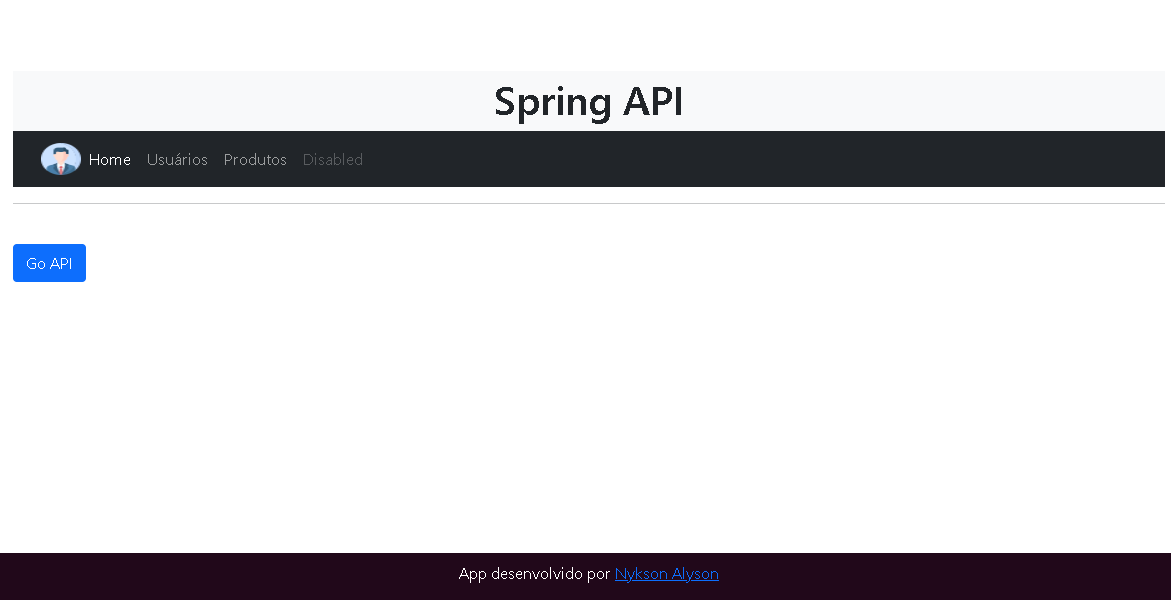
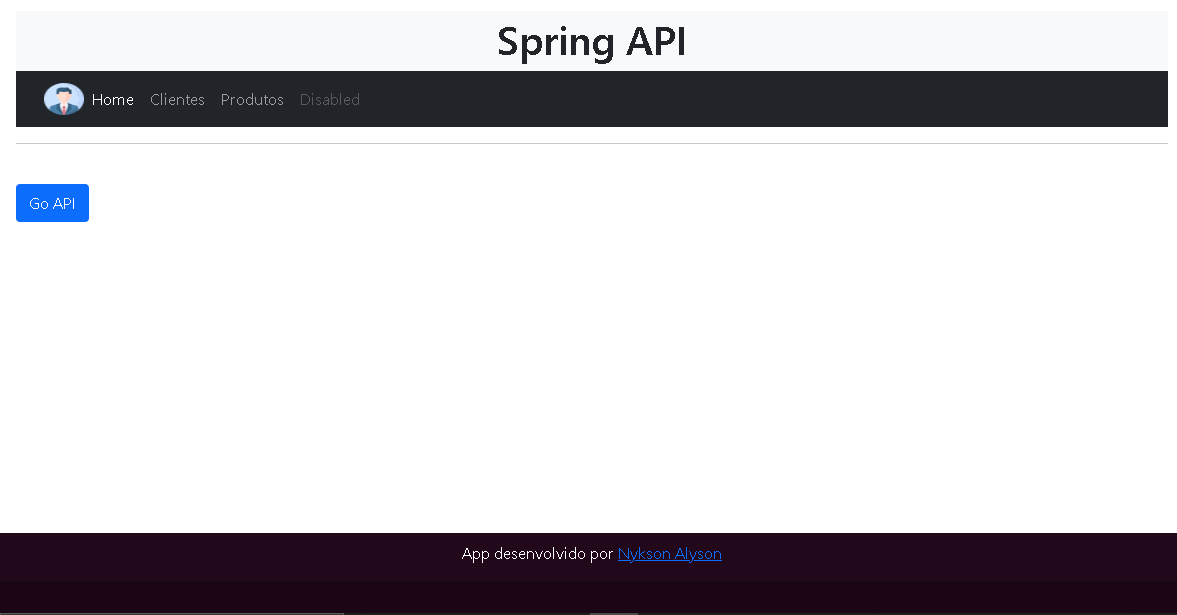
Update Project

diff --git a/src/main/resources/static/product.html b/src/main/resources/static/product.html
@@ -9,7 +9,7 @@
 	html{
 		margin-left: 5%;
 		margin-right:5%;
-		margin-top:6%;
+		margin-top:1%;
 	}
 	</style>
 
@@ -21,6 +21,7 @@
     <h1 class="mb-1">Produtos no Sistema</h1>
     
   </div>
+
 <nav class="navbar navbar-expand-lg navbar-dark bg-danger">
  
   <div class="container-fluid">
@@ -35,7 +36,7 @@
           <a class="nav-link active" aria-current="page" href="index.html">Home</a>
         </li>
         <li class="nav-item">
-          <a class="nav-link" href="user.html">Usuarios</a>
+          <a class="nav-link" href="user.html">Clientes</a>
         </li>
         <li class="nav-item">
           <a class="nav-link" href="product.html">Produtos</a>
@@ -54,17 +55,22 @@
 <form action=""id="formularioProdutos">
 <div class="mb-1 form-group col-sm-2">
   <label for="exampleFormControlInput1" class="form-label">Cod Produto</label>
-  <input type="email" class="form-control" id="idcon" readonly="readonly">
+  <input type="text" class="form-control" id="idcon" readonly="readonly">
 </div>
 
 <div class="mb-1 form-group col-sm-4">
   <label for="exampleFormControlInput1" class="form-label">Nome do Produto</label>
-  <input type="email" class="form-control" id="name" placeholder="informe o produto">
+  <input type="text" class="form-control" id="name" placeholder="informe o produto">
+</div>
+
+<div class="mb-1 form-group col-sm-2">
+  <label for="exampleFormControlInput1" class="form-label">Valor do Produto</label>
+  <input type="number" class="form-control" id="valor" placeholder="informe a valor do produto">
 </div>
 
 <div class="mb-1 form-group col-sm-4">
   <label for="exampleFormControlInput1" class="form-label">Categoria do Produto</label>
-  <input type="email" class="form-control" id="categoria" placeholder="informe a categoria">
+  <input type="text" class="form-control" id="categoria" placeholder="informe a categoria">
 </div>
 
 <br>
@@ -99,10 +105,11 @@
   <thead>
     <tr>
       <th scope="col">ID</th>
-      <th scope="col">Nome</th>
-      <th scope="col">Categoria</th>
-      <th scope="col">Editar</th>
-      <th scope="col">Deletar</th>
+      <th scope="col">NOME</th>
+      <th scope="col">VALOR</th>
+      <th scope="col">CATEGORIA</th>
+      <th scope="col">EDITAR</th>
+      <th scope="col">DELETAR</th>
     </tr>
   </thead>
   <tbody>
@@ -125,7 +132,7 @@
 
   <!-- Copyright -->
    <p>App desenvolvido por <a href="https://github.com/NyksonAlyson" target="_blank" rel="noreferrer">Nykson Alyson</a></p>
-  <div class="text-center p-1" style="background-color: rgba(0, 0, 0, 0.2);">
+  <div class="text-center p-3" style="background-color: rgba(0, 0, 0, 0.2);">
   
   </div>
   <!-- Copyright -->
@@ -149,22 +156,30 @@ function salvarProduto(){
 	
 	var idcon =$("#idcon").val();
 	var name =$("#name").val();
-	var categoria =$("#categoria").val();
+	var valor=$("#valor").val();
+	var categoria=$("#categoria").val();
 	
 	if(name.trim()===''){
 	alert('informe um nome')
 		$('#name').focus();
 		return false
+		
+	}else if(valor.trim()===''){
+		alert('informe um valor')
+		$('#valor').focus();
+		return false
+		
 	}else if(categoria.trim()===''){
 		alert('informe uma categoria')
 		$('#categoria').focus();
 		return false
+	
 	}
 
 	$.ajax({
 		method:"POST",
 		url: "products/salvar",
-		data: JSON.stringify({idcon: idcon, name: name, categoria: categoria}),
+		data: JSON.stringify({idcon: idcon, name: name, valor: valor, categoria: categoria}),
 		contentType: "application/json; charset=utf-8",
 		success: function(response){
 			$("#idcon").val(response.idcon);
@@ -179,8 +194,6 @@ function salvarProduto(){
 	
 	}
 
-
-
 function pesquisarProdutos(){
 	
 	var name =$('#nameBusca').val();
@@ -193,7 +206,7 @@ function pesquisarProdutos(){
 		$('#tabelaResultados > tbody > tr').remove();
 		
 		for(var i=0; i<response.length; i++){
-			$('#tabelaResultados > tbody').append('<tr id="'+response[i].idcon+'"><td>'+response[i].idcon+'</td><td>'+response[i].name+'</td><td>'+response[i].categoria+'</td><td><button type="button"onclick="colocarEmEdicao('+response[i].idcon+')" class="btn btn-warning">Alterar</button></td><td><button type="button"onclick="deleteProduct('+response[i].idcon+')" class="btn btn-danger">Excluir</button></td></tr>');
+			$('#tabelaResultados > tbody').append('<tr id="'+response[i].idcon+'"><td>'+response[i].idcon+'</td><td>'+response[i].name+'</td><td>'+response[i].valor+'</td><td>'+response[i].categoria+'</td><td><button type="button"onclick="colocarEmEdicao('+response[i].idcon+')" class="btn btn-warning">Alterar</button></td><td><button type="button"onclick="deleteProduct('+response[i].idcon+')" class="btn btn-danger">Excluir</button></td></tr>');
 		}	
 	}
 	}).fail(function(xhr, status, errorThrown){		
@@ -236,6 +249,7 @@ function colocarEmEdicao(idcon){
 		
 		$('#idcon').val(response.idcon);
 		$('#name').val(response.name);
+		$('#valor').val(response.valor);
 		$('#categoria').val(response.categoria);
 		
 		$('#modalpesquisarProdutos').modal('hide');

diff --git a/src/main/java/com/nykdev/crud/model/Product.java b/src/main/java/com/nykdev/crud/model/Product.java
@@ -14,17 +14,20 @@ public class Product {
 	private long idcon;
 	private String name;
 	private String categoria;
+	private Double valor;
 	
 	public Product() {
 		super();
 	}
 
 
-	public Product(long idcon, String name, String categoria) {
+	public Product(long idcon, String name, Double valor, String categoria) {
 		super();
 		this.idcon = idcon;
 		this.name = name;
+		this.valor =valor;
 		this.categoria = categoria;
+		
 	}
 
 
@@ -51,8 +54,15 @@ public class Product {
 	public void setCategoria(String categoria) {
 		this.categoria = categoria;
 	}
-	
-	
+
+
+	public Double getValor() {
+		return valor;
+	}
+
+	public void setValor(Double valor) {
+		this.valor = valor;
+	}
 	
 	
 

diff --git a/src/main/java/com/nykdev/crud/model/User.java b/src/main/java/com/nykdev/crud/model/User.java
@@ -15,16 +15,18 @@ public class User {
 	private long idcon;
 	private String name;
 	private String cpf;
+	private String email;
 	
 	public User() {
 		
 	}
 	
-	public User(long idcon, String name, String cpf) {
+	public User(long idcon, String name, String cpf, String email) {
 		super();
 		this.idcon = idcon;
 		this.name = name;
 		this.cpf = cpf;
+		this.email=email;
 	}
 	
 	public long getIdcon() {
@@ -44,6 +46,14 @@ public class User {
 	}
 	public void setCpf(String cpf) {
 		this.cpf = cpf;
+	}
+
+	public String getEmail() {
+		return email;
+	}
+
+	public void setEmail(String email) {
+		this.email = email;
 	}
 	
 	

diff --git a/src/main/java/com/nykdev/crud/model/Clients.java b/src/main/java/com/nykdev/crud/model/Clients.java
@@ -5,7 +5,7 @@ import javax.persistence.GeneratedValue;
 import javax.persistence.GenerationType;
 import javax.persistence.Id;
 import javax.persistence.Table;
-
+//table cliente
 @Entity
 @Table(name = "tb_clients")
 public class Clients {
